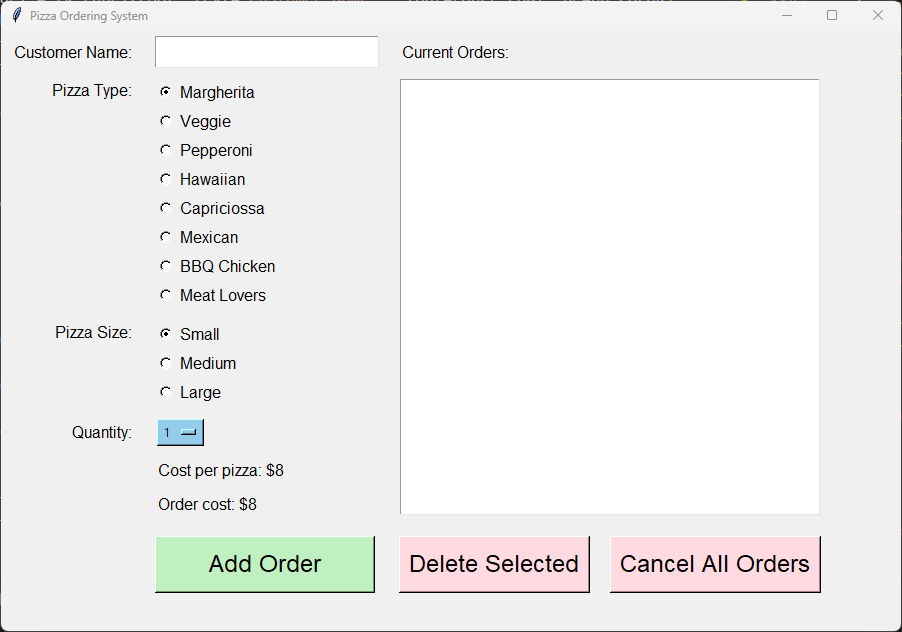
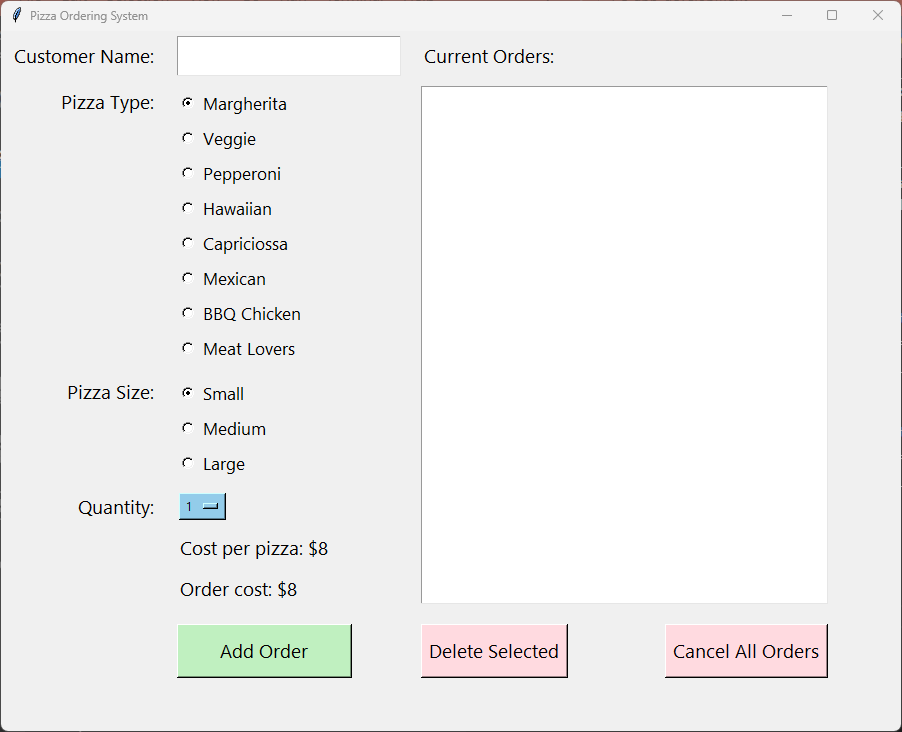
pizza

diff --git a/docs/tk_pizza_orders_tutorial/python/pizza_orders.py b/docs/tk_pizza_orders_tutorial/python/pizza_orders.py
@@ -1,8 +1,9 @@
 import tkinter as tk
 from tkinter import messagebox
 
-# 1. DATA DICTIONARIES
-# 4 options with 3 sizes each
+
+# 1. DATA DICTIONARIES & LISTS
+# options with size
 prices = {
     "Margherita": {"Small": 8, "Medium": 12, "Large": 15},
     "Veggie": {"Small": 9, "Medium": 12, "Large": 16},
@@ -14,28 +15,28 @@ prices = {
     "Meat Lovers": {"Small": 11, "Medium": 15, "Large": 19}
 }
 
-
 # Orders tracking list
 orders = []
 
 
 # 2. CONSTANTS & STYLES
-# Fonts
-LABEL_FONT = ("Helvetica", 12)
-ENTRY_FONT = ("Helvetica", 14)
-ORDER_FONT = ("Helvetica", 12)
-RADIO_FONT = ("Helvetica", 12)
-BUTTON_FONT = ("Helvetica", 18)
+# Fonts - Adding "normal" explicitly stops the OS from making them chunky
+# 2. CONSTANTS & STYLES
+# Segoe UI renders much thinner and more elegant at larger sizes
+LABEL_FONT = ("Segoe UI", 14, "normal")
+ENTRY_FONT = ("Segoe UI", 16, "normal")  # Large, sleek, and crisp!
+ORDER_FONT = ("Segoe UI", 13, "normal")
+RADIO_FONT = ("Segoe UI", 13, "normal")
+BUTTON_FONT = ("Segoe UI", 14, "normal")
 
 # Colors
 BG_COLOR = "#f0f0f0"       # Light gray background
-ENTRY_BG = "#ffffff"  # Entry box background
-LIST_BG = "#ffffff"       # Entry box background
-TOTAL_BG = "#c0f0c0"          # total highlights
-ADD_BG = "#c0f0c0"          # Add button
-DELETE_BG = "#ffdae0"         # Delete / Cancel buttons
-QUANTITY_BG = "#93ccea"        # Quantity background
-
+ENTRY_BG = "#ffffff"       # Entry box background
+LIST_BG = "#ffffff"        # Listbox background
+TOTAL_BG = "#c0f0c0"       # Total highlights
+ADD_BG = "#c0f0c0"         # Add button
+DELETE_BG = "#ffdae0"      # Delete / Cancel buttons
+QUANTITY_BG = "#93ccea"    # Quantity background
 
 
 # 3. DEFINITIONS / FUNCTIONS
@@ -68,9 +69,6 @@ def add_order():
         update_order_list()
 
 
-
-
-
 def update_order_list():
     """Refreshes the listbox display and recalculates total cost."""
     order_list.delete(0, tk.END)
@@ -85,7 +83,9 @@ def update_order_list():
     if orders:
         order_list.insert(tk.END, f"Total cost: ${total_cost}")
         # Color code the very last row (Total Cost line)
-        order_list.itemconfig(tk.END, {"bg": TOTAL_BG})
+        # Get the index number of the very last item we just added
+        last_row_index = tk.END
+        order_list.itemconfig(last_row_index, bg=TOTAL_BG)
 
 
 def delete_selected_pizza():
@@ -109,52 +109,65 @@ def cancel_order():
     update_order_list()
 
 
-
 # 4. TKINTER WIDGETS
 # Create the main window
 root = tk.Tk()
 root.title("Pizza Ordering System")
-root.geometry("900x600")
+root.geometry("900x700")
 root.configure(bg=BG_COLOR)
 
-# --- LEFT SIDE: INPUT CONTROLS ---
+# --- LEFT SIDE: SELECTIONS ---
 
 # Customer Name
-customer_label = tk.Label(root, text="Customer Name:", font=LABEL_FONT, bg=BG_COLOR)
+customer_label = tk.Label(root, text="Customer Name:")
 customer_label.grid(row=0, column=0, padx=10, pady=5, sticky="e")
+customer_label.config(font=LABEL_FONT, bg=BG_COLOR)
 
-customer_entry = tk.Entry(root, width=20, font=ENTRY_FONT, bg=ENTRY_BG)
+customer_entry = tk.Entry(root, width=20)
 customer_entry.grid(row=0, column=1, padx=10, pady=5, ipady=3, sticky="w")
+customer_entry.config(font=ENTRY_FONT, bg=ENTRY_BG)
 
 # Pizza Type (Radio buttons)
-pizza_label = tk.Label(root, text="Pizza Type:", font=LABEL_FONT, bg=BG_COLOR)
+pizza_label = tk.Label(root, text="Pizza Type:")
 pizza_label.grid(row=1, column=0, padx=10, pady=5, sticky="ne")
+pizza_label.config(font=LABEL_FONT, bg=BG_COLOR)
+
 pizza_var = tk.StringVar(root)
 pizza_var.set("Margherita")
 pizza_var.trace_add("write", update_costs)
 
-pizza_frame = tk.Frame(root, bg=BG_COLOR)
+pizza_frame = tk.Frame(root)
 pizza_frame.grid(row=1, column=1, padx=10, pady=5, sticky="w")
+pizza_frame.config(bg=BG_COLOR)
+
 for pizza in prices.keys():
-    radio_button = tk.Radiobutton(pizza_frame, text=pizza, variable=pizza_var, value=pizza, font=RADIO_FONT, bg=BG_COLOR)
+    radio_button = tk.Radiobutton(pizza_frame, text=pizza, variable=pizza_var, value=pizza)
     radio_button.pack(anchor="w")
+    radio_button.config(font=RADIO_FONT, bg=BG_COLOR)
 
 # Pizza Size (Radio buttons)
-pizza_label = tk.Label(root, text="Pizza Size:", font=LABEL_FONT, bg=BG_COLOR)
-pizza_label.grid(row=2, column=0, padx=10, pady=5, sticky="ne")
+size_label = tk.Label(root, text="Pizza Size:")
+size_label.grid(row=2, column=0, padx=10, pady=5, sticky="ne")
+size_label.config(font=LABEL_FONT, bg=BG_COLOR)
+
 size_var = tk.StringVar(root)
 size_var.set("Small")
 size_var.trace_add("write", update_costs)
 
-size_frame = tk.Frame(root, bg=BG_COLOR)
+size_frame = tk.Frame(root)
 size_frame.grid(row=2, column=1, padx=10, pady=5, sticky="w")
+size_frame.config(bg=BG_COLOR)
+
 for size in ["Small", "Medium", "Large"]:
-    radio_button = tk.Radiobutton(size_frame, text=size, variable=size_var, value=size, font=RADIO_FONT, bg=BG_COLOR)
+    radio_button = tk.Radiobutton(size_frame, text=size, variable=size_var, value=size)
     radio_button.pack(anchor="w")
+    radio_button.config(font=RADIO_FONT, bg=BG_COLOR)
 
 # Quantity (Dropdown Menu)
-quanitity_label = tk.Label(root, text="Quantity:", font=LABEL_FONT, bg=BG_COLOR)
-quanitity_label.grid(row=3, column=0, padx=10, pady=5, sticky="e")
+quantity_label = tk.Label(root, text="Quantity:")
+quantity_label.grid(row=3, column=0, padx=10, pady=5, sticky="e")
+quantity_label.config(font=LABEL_FONT, bg=BG_COLOR)
+
 quantity_var = tk.IntVar(root)
 quantity_var.set(1)
 quantity_var.trace_add("write", update_costs)
@@ -168,38 +181,48 @@ quantity_menu["menu"].config(bg=QUANTITY_BG)  # for menu items
 # Cost per pizza display
 cost_display_var = tk.StringVar(root)
 cost_display_var.set("Cost per pizza: $8")
-cost_label = tk.Label(root, textvariable=cost_display_var, font=LABEL_FONT, bg=BG_COLOR)
+
+cost_label = tk.Label(root, textvariable=cost_display_var)
 cost_label.grid(row=4, column=1, padx=10, pady=5, sticky="w")
+cost_label.config(font=LABEL_FONT, bg=BG_COLOR)
+
 # order cost display
 order_cost_var = tk.StringVar(root)
 order_cost_var.set("Order cost: $8")
-order_cost_label = tk.Label(root, textvariable=order_cost_var, font=LABEL_FONT, bg=BG_COLOR)
+
+order_cost_label = tk.Label(root, textvariable=order_cost_var)
 order_cost_label.grid(row=5, column=1, padx=10, pady=5, sticky="w")
+order_cost_label.config(font=LABEL_FONT, bg=BG_COLOR)
 
 # Action Button: Add Order
-add_button = tk.Button(root, text="Add Order", command=add_order, font=BUTTON_FONT,bg=ADD_BG, activebackground=ADD_BG, width=15)
+add_button = tk.Button(root, text="Add Order", command=add_order, width=15)
 add_button.grid(row=6, column=1, padx=10, pady=15, ipady=5, sticky="w")
+add_button.config(font=BUTTON_FONT, bg=ADD_BG)
 
 
 # --- RIGHT SIDE: ORDER DISPLAY & MANAGEMENT ---
 
 # Order List Label & Listbox
-orders_label = tk.Label(root, text="Current Orders:", font=LABEL_FONT, bg=BG_COLOR)
+orders_label = tk.Label(root, text="Current Orders:")
 orders_label.grid(row=0, column=2, padx=10, pady=5, sticky="w")
-order_list = tk.Listbox(root, font=ORDER_FONT, width=45, height=12, bg=LIST_BG)
+orders_label.config(font=LABEL_FONT, bg=BG_COLOR)
+
+order_list = tk.Listbox(root, width=45, height=12)
 order_list.grid(row=1, column=2, rowspan=5, columnspan=2, padx=10, pady=5, sticky="nsew")
+order_list.config(font=ORDER_FONT, bg=LIST_BG, activestyle="none", highlightthickness=0, selectbackground="#d3d3d3", selectforeground="#000000")
+
 
 # Action Button: Delete Selected
-delete_pizza_button = tk.Button(root, text="Delete Selected", command=delete_selected_pizza, font=BUTTON_FONT, bg=DELETE_BG, activebackground=DELETE_BG)
+delete_pizza_button = tk.Button(root, text="Delete Selected", command=delete_selected_pizza)
 delete_pizza_button.grid(row=6, column=2, padx=10, pady=15, ipady=5, sticky="w")
+delete_pizza_button.config(font=BUTTON_FONT, bg=DELETE_BG)
 
 # Action Button: Cancel All Orders
-cancel_order_button = tk.Button(root, text="Cancel All Orders", command=cancel_order, font=BUTTON_FONT,bg=DELETE_BG, activebackground=DELETE_BG)
+cancel_order_button = tk.Button(root, text="Cancel All Orders", command=cancel_order)
 cancel_order_button.grid(row=6, column=3, padx=10, pady=15, ipady=5, sticky="e")
+cancel_order_button.config(font=BUTTON_FONT, bg=DELETE_BG)
 
-# 5. Main code
-# Initialize price calculations display on startup
-update_costs()
 
-# Run application
+# 5. MAIN CODE
+# Run the application
 root.mainloop()

diff --git a/docs/tk_pizza_orders_tutorial/python/pizza_orders_09.py b/docs/tk_pizza_orders_tutorial/python/pizza_orders_09.py
@@ -20,12 +20,14 @@ orders = []
 
 
 # 2. CONSTANTS & STYLES
-# Fonts
-LABEL_FONT = ("Helvetica", 12)
-ENTRY_FONT = ("Helvetica", 14)
-ORDER_FONT = ("Helvetica", 12)
-RADIO_FONT = ("Helvetica", 12)
-BUTTON_FONT = ("Helvetica", 14)  # Adjusted slightly for clean layout grid scaling
+# Fonts - Adding "normal" explicitly stops the OS from making them chunky
+# 2. CONSTANTS & STYLES
+# Segoe UI renders much thinner and more elegant at larger sizes
+LABEL_FONT = ("Segoe UI", 14, "normal")
+ENTRY_FONT = ("Segoe UI", 16, "normal")  # Large, sleek, and crisp!
+ORDER_FONT = ("Segoe UI", 13, "normal")
+RADIO_FONT = ("Segoe UI", 13, "normal")
+BUTTON_FONT = ("Segoe UI", 14, "normal")
 
 # Colors
 BG_COLOR = "#f0f0f0"       # Light gray background
@@ -111,7 +113,7 @@ def cancel_order():
 # Create the main window
 root = tk.Tk()
 root.title("Pizza Ordering System")
-root.geometry("900x600")
+root.geometry("900x700")
 root.configure(bg=BG_COLOR)
 
 # --- LEFT SIDE: SELECTIONS ---
@@ -207,7 +209,8 @@ orders_label.config(font=LABEL_FONT, bg=BG_COLOR)
 
 order_list = tk.Listbox(root, width=45, height=12)
 order_list.grid(row=1, column=2, rowspan=5, columnspan=2, padx=10, pady=5, sticky="nsew")
-order_list.config(font=ORDER_FONT, bg=LIST_BG, activestyle="none", highlightthickness=0)
+order_list.config(font=ORDER_FONT, bg=LIST_BG, activestyle="none", highlightthickness=0, selectbackground="#d3d3d3", selectforeground="#000000")
+
 
 # Action Button: Delete Selected
 delete_pizza_button = tk.Button(root, text="Delete Selected", command=delete_selected_pizza)

diff --git a/docs/tk_pizza_orders_tutorial/python/pizza_orders_01.py b/docs/tk_pizza_orders_tutorial/python/pizza_orders_01.py
@@ -10,7 +10,7 @@ import tkinter as tk
 # Create the main window
 root = tk.Tk()
 root.title("Pizza Ordering System")
-root.geometry("900x600")
+root.geometry("900x700")
 
 
 

diff --git a/docs/tk_pizza_orders_tutorial/python/pizza_orders_02.py b/docs/tk_pizza_orders_tutorial/python/pizza_orders_02.py
@@ -10,7 +10,7 @@ import tkinter as tk
 # Create the main window
 root = tk.Tk()
 root.title("Pizza Ordering System")
-root.geometry("900x600")
+root.geometry("900x700")
 
 # --- LEFT SIDE: INPUT CONTROLS ---
 

diff --git a/docs/tk_pizza_orders_tutorial/python/pizza_orders_03.py b/docs/tk_pizza_orders_tutorial/python/pizza_orders_03.py
@@ -10,7 +10,7 @@ import tkinter as tk
 # Create the main window
 root = tk.Tk()
 root.title("Pizza Ordering System")
-root.geometry("900x600")
+root.geometry("900x700")
 
 # Customer Name
 customer_label = tk.Label(root, text="Customer Name:")

diff --git a/docs/tk_pizza_orders_tutorial/python/pizza_orders_04.py b/docs/tk_pizza_orders_tutorial/python/pizza_orders_04.py
@@ -10,7 +10,7 @@ import tkinter as tk
 # Create the main window
 root = tk.Tk()
 root.title("Pizza Ordering System")
-root.geometry("900x600")
+root.geometry("900x700")
 
 # Customer Name
 customer_label = tk.Label(root, text="Customer Name:")

diff --git a/docs/tk_pizza_orders_tutorial/python/pizza_orders_05.py b/docs/tk_pizza_orders_tutorial/python/pizza_orders_05.py
@@ -29,7 +29,7 @@ def update_costs(*args):
 # Create the main window
 root = tk.Tk()
 root.title("Pizza Ordering System")
-root.geometry("900x600")
+root.geometry("900x700")
 
 # Customer Name
 customer_label = tk.Label(root, text="Customer Name:")

diff --git a/docs/tk_pizza_orders_tutorial/python/pizza_orders_06.py b/docs/tk_pizza_orders_tutorial/python/pizza_orders_06.py
@@ -51,7 +51,7 @@ def add_order():
 # Create the main window
 root = tk.Tk()
 root.title("Pizza Ordering System")
-root.geometry("900x600")
+root.geometry("900x700")
 
 # Customer Name
 customer_label = tk.Label(root, text="Customer Name:")

diff --git a/docs/tk_pizza_orders_tutorial/python/pizza_orders_07.py b/docs/tk_pizza_orders_tutorial/python/pizza_orders_07.py
@@ -66,7 +66,7 @@ def update_order_list():
 # Create the main window
 root = tk.Tk()
 root.title("Pizza Ordering System")
-root.geometry("900x600")
+root.geometry("900x700")
 
 # Customer Name
 customer_label = tk.Label(root, text="Customer Name:")

diff --git a/docs/tk_pizza_orders_tutorial/python/pizza_orders_08.py b/docs/tk_pizza_orders_tutorial/python/pizza_orders_08.py
@@ -86,7 +86,7 @@ def cancel_order():
 # Create the main window
 root = tk.Tk()
 root.title("Pizza Ordering System")
-root.geometry("900x600")
+root.geometry("900x700")
 
 # Customer Name
 customer_label = tk.Label(root, text="Customer Name:")

diff --git a/docs/tk_pizza_orders_tutorial/Lesson01.rst b/docs/tk_pizza_orders_tutorial/Lesson01.rst
@@ -39,7 +39,7 @@ Creating a Basic Window
     # Create the main window
     root = tk.Tk()
     root.title("Pizza Ordering System")
-    root.geometry("900x600")
+    root.geometry("900x700")
 
     # 5. Main code
     # Run the application
@@ -48,5 +48,5 @@ Creating a Basic Window
 - ``import tkinter as tk``: Imports the Tkinter library and assigns it the alias ``tk``.
 - ``root = tk.Tk()``: Creates the main application root.
 - ``root.title("Pizza Ordering System")``: Sets the title of the root.
-- ``root.geometry("900x600")``: Sets the size of the window to 900 pixels wide and 600 pixels tall.
+- ``root.geometry("900x700")``: Sets the size of the window to 900 pixels wide and 600 pixels tall.
 - ``root.mainloop()``: Starts the Tkinter event loop, which waits for user interactions.

diff --git a/docs/tk_pizza_orders_tutorial/Lesson09.rst b/docs/tk_pizza_orders_tutorial/Lesson09.rst
@@ -155,7 +155,7 @@ Adding font and colour settings to tkinter widgets
     # Orders list
     orders_label.config(font=LABEL_FONT, bg=BG_COLOR)
 
-    order_list.config(font=ORDER_FONT, bg=LIST_BG)
+    order_list.config(font=ORDER_FONT, bg=LIST_BG, activestyle="none", highlightthickness=0, selectbackground="#d3d3d3", selectforeground="#000000")
 
 
 .. code-block:: python